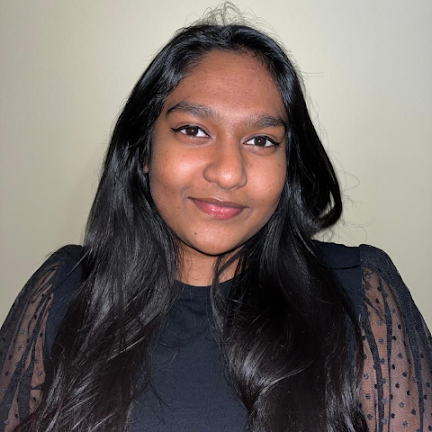
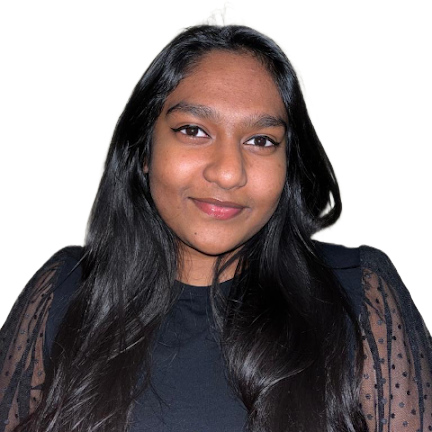
working on About Page

diff --git a/src/Components/PhotoPiece.js b/src/Components/PhotoPiece.js
@@ -1,0 +1,97 @@
+import React from 'react'
+
+function PhotoPiece(props) {
+    const MainBox = {
+        display: 'flex',
+        width: '16em',
+        height: '10em',
+        backgroundColor: 'black',
+        overflow: 'hidden',
+        paddingLeft: '3px',
+        paddingBottom: '2px',
+        paddingTop: '2px',
+        marginRight: '-16em',
+        marginBottom: '-4.5em',
+        transform:'rotate(15deg)',
+      };
+    
+      const InnerBox = {
+        display: 'flex',
+        width: '10em',
+        height: '10em',
+        backgroundColor: 'rgb(85, 9, 185)',
+        zIndex: '1',
+        border: '1px solid rgb(85, 9, 185)',
+        borderRadius: '1em',
+        boxShadow: '0px 2px 13px rgb(85, 9, 185), inset 0px 1px 11px rgb(85, 9, 185)',
+        position: 'relative',
+      };
+      
+      const verticalBar = {
+        position: 'absolute',
+        width: '1em',
+        height: '7em',
+        background: 'rgb(85, 9, 185)',
+        right: '0.19em',
+        bottom: '1.8em',
+        zIndex: '100',
+      };
+      
+      const verticalBar2 = {
+        position: 'absolute',
+        width: '2.2em',
+        height: '7em',
+        background: 'rgb(85, 9, 185)',
+        right: '1em',
+        bottom: '1.8em',
+        zIndex: '100',
+      };
+      
+      const firstCircle = {
+        backgroundColor: 'black',
+        borderRadius: '45%',
+        height: '4em',
+        width: '4em',
+        transform: 'translate(3em, 7.7em)',
+        boxShadow: '0px 1px 11px rgb(85, 9, 185), inset 0px 1px 11px rgb(85, 9, 185)',
+        border: '1px solid rgb(85, 9, 185)',
+        zIndex: '102',
+      };
+      
+      const secondCircle = {
+        backgroundColor: 'rgb(85, 9, 185)',
+        borderRadius: '45%',
+        height: '4em',
+        width: '4em',
+        transform: 'translate(4.6em, 3.3em)',
+        zIndex: '0',
+        border: '1px solid rgb(85, 9, 185)',
+        boxShadow: '0px 1px 11px rgb(85, 9, 185), inset 0px 1px 11px rgb(85, 9, 185)',
+      };
+      
+      const infoContainer = {
+        position: 'absolute',
+        zIndex: '101',
+        right: '0.2em',
+        top: '0.24em',
+        gap: '0.2em',
+        display: 'flex',
+        flexDirection: 'column',
+        alignItems: 'center',
+      };
+  return (
+    <div style={MainBox}>
+          <div style={InnerBox}>
+              <div style={verticalBar} />
+              <div style={verticalBar2} />
+              <div style={firstCircle}/>
+              <div style={secondCircle}/>
+              <div style={infoContainer}>
+                {props.children}
+              </div>
+          </div>
+      </div>
+  )
+}
+
+export default PhotoPiece

diff --git a/src/Components/BottomLeftPiece.js b/src/Components/BottomLeftPiece.js
@@ -1,6 +1,5 @@
 import {React, useState, useEffect} from 'react';
 import Box from '@mui/material/Box';
-import { styled } from '@mui/system';
 
 function BottomLeftPiece() {
   const [loaded, setLoaded] = useState(false);
@@ -15,22 +14,22 @@ function BottomLeftPiece() {
 
   }, []);
   return (
-    <Box sx={{display:'flex', width:'16em', height:'12.1em', backgroundColor:'black', overflow:'hidden',
+    <div style={{display:'flex', width:'16em', height:'12.1em', backgroundColor:'black', overflow:'hidden',
     paddingLeft:'3px', paddingBottom:'2px', paddingTop:'2px', marginTop:'-2em', marginLeft:'-2em',
     transform: loaded ? 'translateX(0) translateY(0) rotate(270deg)' : 'translateX(-150%) translateY(1000%) rotate(180deg)',
     transition: 'transform 2s ease', transitionDelay: '1s'
     }}>
-        <Box sx={{display:'flex', width:'12em', height:'12em', backgroundColor:'black', zIndex:'1', border:'1px solid rgb(85, 9, 185)',
+        <div style={{display:'flex', width:'12em', height:'12em', backgroundColor:'black', zIndex:'1', border:'1px solid rgb(85, 9, 185)',
         borderRadius:'1em', boxShadow: '0px 2px 13px rgb(85, 9, 185), inset 0px 1px 11px rgb(85, 9, 185)', position:'relative'}}>
-            <Box sx={{position:'absolute', width:'1em', height:'9em', background:'black', right:'0.19em', bottom:'1.8em', zIndex:'100'}} />
-            <Box sx={{position:'absolute', width:'2.2em', height:'9em', background:'black', right:'1em', bottom:'1.8em', zIndex:'100'}} />
-            <Box sx={{backgroundColor:'black', borderRadius:'45%', height:'6em', width:'5em', transform:'translate(3.5em, 9em)', 
+            <div style={{position:'absolute', width:'1em', height:'9em', background:'black', right:'0.19em', bottom:'1.8em', zIndex:'100'}} />
+            <div style={{position:'absolute', width:'2.2em', height:'9em', background:'black', right:'1em', bottom:'1.8em', zIndex:'100'}} />
+            <div style={{backgroundColor:'black', borderRadius:'45%', height:'6em', width:'5em', transform:'translate(3.5em, 9em)', 
             boxShadow: '0px 1px 11px rgb(85, 9, 185), inset 0px 1px 11px rgb(85, 9, 185)', border:'1px solid rgb(85, 9, 185)'}}/>
-            <Box sx={{backgroundColor:'black', borderRadius:'45%', height:'5em', width:'6em', 
+            <div style={{backgroundColor:'black', borderRadius:'45%', height:'5em', width:'6em', 
             transform:'translate(4.5em, 3.5em)', zIndex:'0', border:'1px solid rgb(85, 9, 185)',
             boxShadow: '0px 1px 11px rgb(85, 9, 185), inset 0px 1px 11px rgb(85, 9, 185)', zIndex:'0'}}/>
-        </Box>
-    </Box>
+        </div>
+    </div>
   )
 }
 

diff --git a/src/Pages/About.js b/src/Pages/About.js
@@ -1,18 +1,24 @@
 import React from 'react'
 import { Box } from '@mui/material'
 import photo from '../Images/headshot.png'
-import TopLeftPiece from '../Components/TopLeftPiece'
+import PhotoPiece from '../Components/PhotoPiece'
 
 function About() {
   return (
     <Box sx={{display:'flex',flexDirection:'column', height:'inherit', width:'inherit',
     justifyContent:'center', backgroundColor:'black'}}>
         <Box sx={{display:'flex', alignItems:'center', justifyContent:'center',
-         height:'inherit', width:'inherit'}}>
-            <Box sx={{ border:'1px solid rgb(85, 9, 185)', padding:'2em',
+         height:'inherit', width:'inherit', flexDirection:'column'}}>
+            <div style={{paddingLeft:"27em"}}>
+                <PhotoPiece>
+                <img src={photo} alt="photo"
+                 style={{width:'9.5em'}}/>
+                </PhotoPiece>
+            </div>
+            <Box sx={{ border:'1px solid rgb(85, 9, 185)', padding:'4em',
              paddingRight:'2em', paddingLeft:'2em', width:'50%', height:'auto',
              boxShadow: '0px 1px 11px rgb(96, 40, 169), inset 0px 1px 11px rgb(85, 9, 185)'}}>
-                <p style={{color:'aliceblue', fontSize:'1.3vw'}}> 
+                <p style={{color:'aliceblue', fontSize:'1.5vw'}}> 
                 Hey there! I'm Sparkle Biswas, and I am passionate about
                  designing, programming, and solving puzzles – 
                  also why my website rocks the puzzle theme!
@@ -24,13 +30,11 @@ function About() {
                   with me or simply want to connect!
                 </p>
             </Box>
-            <TopLeftPiece>
-                <img src={photo} alt="photo"
-                 style={{width:'5em'}}/>
-            </TopLeftPiece>
         </Box>
     </Box>
   )
 }
 
 export default About
+
+//
